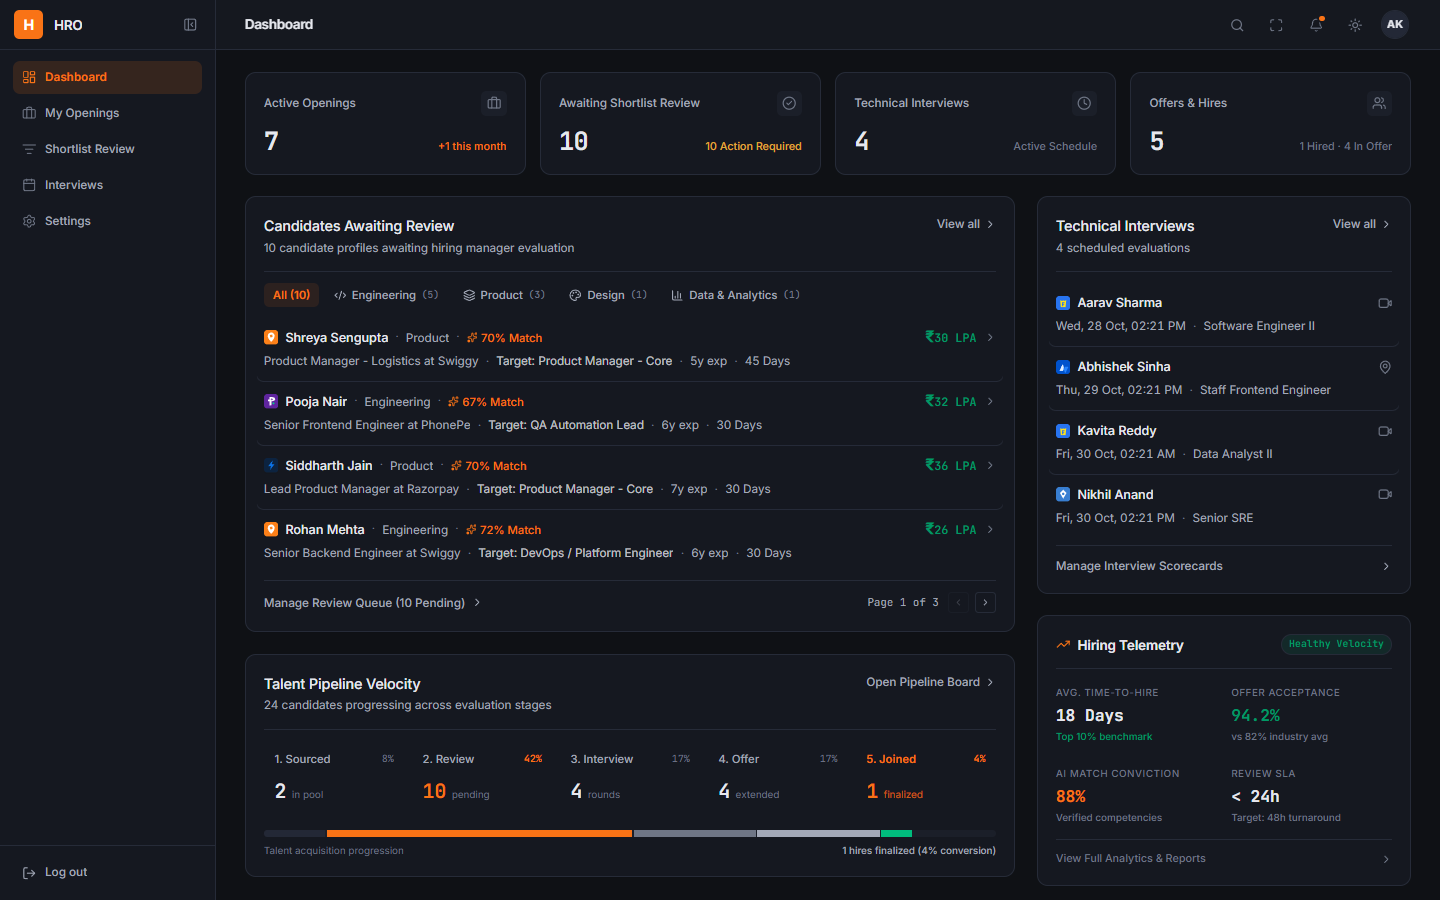
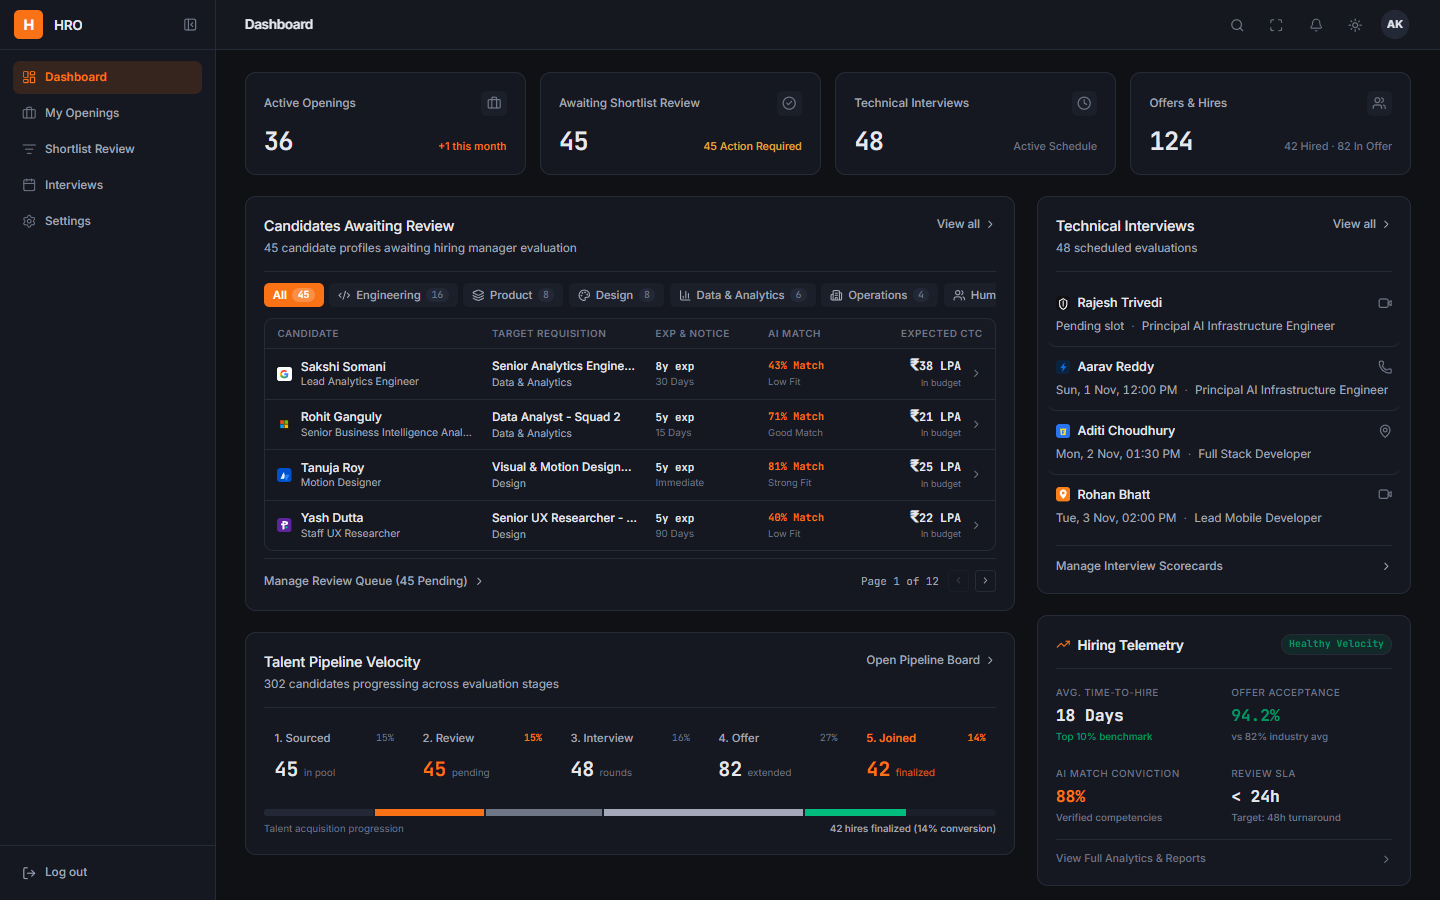
fix(cards): prevent text turning orange on card click or hover across all views

diff --git a/features/dashboard/components/manager-dashboard.tsx b/features/dashboard/components/manager-dashboard.tsx
@@ -247,18 +247,29 @@ export function ManagerDashboard() {
             </div>
 
             {/* Department Filter Pills (Clean Text, No Border Boxes) */}
+            {/* Department Filter Pills (Proper Orange When Selected, Matching Openings) */}
             <div className="pt-3 pb-1 flex items-center gap-1.5 overflow-x-auto no-scrollbar">
               <button
                 type="button"
                 onClick={() => handleSelectReviewDept('all')}
                 className={cn(
-                  'px-2.5 py-1 text-[12.5px] font-medium rounded-[6px] transition-colors cursor-pointer shrink-0',
+                  'inline-flex items-center gap-1.5 px-2.5 py-1 text-[12.5px] font-medium rounded-[6px] transition-colors cursor-pointer shrink-0',
                   selectedReviewDept === 'all'
-                    ? 'bg-accent/10 text-accent font-semibold'
-                    : 'text-text-muted hover:text-text hover:bg-surface-2'
+                    ? 'bg-accent text-white font-semibold shadow-xs'
+                    : 'bg-surface-2 text-text-muted hover:bg-surface-3 hover:text-text'
                 )}
               >
-                All ({pendingReviewCandidates.length})
+                <span>All</span>
+                <span
+                  className={cn(
+                    'rounded-full px-1.5 font-mono text-[11px]',
+                    selectedReviewDept === 'all'
+                      ? 'bg-white/20 text-white font-semibold'
+                      : 'bg-surface-3 text-text-subtle'
+                  )}
+                >
+                  {pendingReviewCandidates.length}
+                </span>
               </button>
               {departmentGroups.map((group) => {
                 const GroupIcon = group.icon;
@@ -271,19 +282,21 @@ export function ManagerDashboard() {
                     className={cn(
                       'inline-flex items-center gap-1.5 px-2.5 py-1 text-[12.5px] font-medium rounded-[6px] transition-colors cursor-pointer shrink-0',
                       isSelected
-                        ? 'bg-accent/10 text-accent font-semibold'
-                        : 'text-text-muted hover:text-text hover:bg-surface-2'
+                        ? 'bg-accent text-white font-semibold shadow-xs'
+                        : 'bg-surface-2 text-text-muted hover:bg-surface-3 hover:text-text'
                     )}
                   >
                     <GroupIcon className="h-3.5 w-3.5 shrink-0" />
                     <span>{group.title}</span>
                     <span
                       className={cn(
-                        'font-mono text-[11px]',
-                        isSelected ? 'text-accent' : 'text-text-subtle'
+                        'rounded-full px-1.5 font-mono text-[11px]',
+                        isSelected
+                          ? 'bg-white/20 text-white font-semibold'
+                          : 'bg-surface-3 text-text-subtle'
                       )}
                     >
-                      ({group.candidates.length})
+                      {group.candidates.length}
                     </span>
                   </button>
                 );

diff --git a/features/auth/components/auth-view.tsx b/features/auth/components/auth-view.tsx
@@ -493,13 +493,13 @@ export function AuthView({ initialMode = 'login' }: AuthViewProps) {
                     </AvatarFallback>
                   </Avatar>
                   <div className="min-w-0">
-                    <p className="text-text text-[12px] font-semibold truncate group-hover:text-accent transition-colors">
+                    <p className="text-text text-[12px] font-semibold truncate transition-colors">
                       {managerUser?.name ?? 'Arjun Kapoor'}
                     </p>
                     <p className="text-text-subtle text-[10.5px] truncate">Hiring Manager</p>
                   </div>
                 </div>
-                <ArrowRight className="h-3 w-3 text-text-subtle group-hover:text-accent group-hover:translate-x-0.5 transition-all shrink-0 ml-1" />
+                <ArrowRight className="h-3 w-3 text-text-subtle group-hover:text-text group-hover:translate-x-0.5 transition-all shrink-0 ml-1" />
               </button>
 
               {/* Persona 2: HR */}
@@ -515,13 +515,13 @@ export function AuthView({ initialMode = 'login' }: AuthViewProps) {
                     </AvatarFallback>
                   </Avatar>
                   <div className="min-w-0">
-                    <p className="text-text text-[12px] font-semibold truncate group-hover:text-accent transition-colors">
+                    <p className="text-text text-[12px] font-semibold truncate transition-colors">
                       {hrUser?.name ?? 'Priya Sharma'}
                     </p>
                     <p className="text-text-subtle text-[10.5px] truncate">HR Specialist</p>
                   </div>
                 </div>
-                <ArrowRight className="h-3 w-3 text-text-subtle group-hover:text-accent group-hover:translate-x-0.5 transition-all shrink-0 ml-1" />
+                <ArrowRight className="h-3 w-3 text-text-subtle group-hover:text-text group-hover:translate-x-0.5 transition-all shrink-0 ml-1" />
               </button>
             </div>
           </div>

diff --git a/features/openings/components/opening-detail.tsx b/features/openings/components/opening-detail.tsx
@@ -595,7 +595,7 @@ export function OpeningDetail({ id }: OpeningDetailProps) {
                                     <button
                                       type="button"
                                       onClick={() => handleInspect(candidate)}
-                                      className="text-[13.5px] font-bold text-text tracking-tight hover:text-accent transition-colors truncate cursor-pointer text-left"
+                                      className="text-[13.5px] font-bold text-text tracking-tight hover:text-text transition-colors truncate cursor-pointer text-left"
                                     >
                                       {candidate.name}
                                     </button>
@@ -718,7 +718,7 @@ export function OpeningDetail({ id }: OpeningDetailProps) {
                               <button
                                 type="button"
                                 onClick={() => handleInspect(candidate)}
-                                className="inline-flex items-center gap-1 text-[11px] font-medium text-text-subtle hover:text-accent transition-colors cursor-pointer"
+                                className="inline-flex items-center gap-1 text-[11px] font-medium text-text-muted hover:text-text transition-colors cursor-pointer"
                               >
                                 <span>View dossier</span>
                                 <ArrowRight className="h-3 w-3" />

diff --git a/features/candidates/components/ai-candidate-matcher-sheet.tsx b/features/candidates/components/ai-candidate-matcher-sheet.tsx
@@ -339,7 +339,7 @@ export function AiCandidateMatcherSheet({
 
                       <div className="min-w-0 flex-1">
                         <div className="flex items-center gap-1.5 flex-wrap">
-                          <h4 className="text-[13.5px] font-bold text-text tracking-tight group-hover:text-accent transition-colors truncate">
+                          <h4 className="text-[13.5px] font-bold text-text tracking-tight transition-colors truncate">
                             {candidate.name}
                           </h4>
                           <SourceBadge source={candidate.source} variant="plain" />
@@ -459,7 +459,7 @@ export function AiCandidateMatcherSheet({
                       <button
                         type="button"
                         onClick={() => onInspectCandidate(candidate)}
-                        className="inline-flex items-center gap-1 text-[11px] font-medium text-text-subtle hover:text-accent transition-colors cursor-pointer"
+                        className="inline-flex items-center gap-1 text-[11px] font-medium text-text-muted hover:text-text transition-colors cursor-pointer"
                       >
                         <span>View dossier</span>
                         <ArrowRight className="h-3 w-3" />

diff --git a/components/hro/opening-row.tsx b/components/hro/opening-row.tsx
@@ -63,7 +63,7 @@ export function OpeningRow({
     >
       {/* 1. Opening Cell */}
       <div className="min-w-0 flex flex-col justify-center">
-        <span className="inline-block max-w-full truncate text-[14px] leading-[20px] font-medium text-text hover:text-accent transition-colors">
+        <span className="inline-block max-w-full truncate text-[14px] leading-[20px] font-medium text-text group-hover:text-text transition-colors">
           {opening.title}
         </span>
 
@@ -102,7 +102,7 @@ export function OpeningRow({
                   e.stopPropagation();
                   onReactivate(opening.id, opening.title);
                 }}
-                className="opacity-0 group-hover:opacity-100 focus:opacity-100 transition-opacity text-[11px] text-accent hover:underline font-medium cursor-pointer"
+                className="opacity-0 group-hover:opacity-100 focus:opacity-100 transition-opacity text-[11px] text-text-muted hover:text-text hover:underline font-medium cursor-pointer"
               >
                 Reactivate
               </button>

diff --git a/features/candidates/components/interviews-view.tsx b/features/candidates/components/interviews-view.tsx
@@ -416,7 +416,7 @@ export function InterviewsView() {
               {departments.length > 0 && (
                 <Select value={departmentFilter} onValueChange={setDepartmentFilter}>
                   <SelectTrigger className="h-8.5 w-auto min-w-[150px] gap-2 border-border/70 bg-surface-2/40 hover:bg-surface-2 text-text px-3 text-[12.5px] font-medium rounded-[6px] shadow-2xs">
-                    <Building2 className="h-3.5 w-3.5 text-accent shrink-0" />
+                    <Building2 className="h-3.5 w-3.5 text-text-muted shrink-0" />
                     <SelectValue placeholder="All Departments" />
                   </SelectTrigger>
                   <SelectContent align="start" className="min-w-[190px]">

diff --git a/features/dashboard/components/hr-dashboard.tsx b/features/dashboard/components/hr-dashboard.tsx
@@ -539,7 +539,7 @@ export function HrDashboard() {
                           <div className="flex justify-end">
                             <Link
                               href={candidate.stage === 'Shared with Manager' ? '/shortlist' : '/pipeline'}
-                              className="inline-flex items-center gap-1 text-[11.5px] font-semibold text-text-muted hover:text-accent transition-colors"
+                              className="inline-flex items-center gap-1 text-[11.5px] font-semibold text-text-muted hover:text-text transition-colors"
                             >
                               <span>View Profile</span>
                               <ChevronRight className="h-3.5 w-3.5" />

diff --git a/features/candidates/components/candidates-table.tsx b/features/candidates/components/candidates-table.tsx
@@ -94,7 +94,7 @@ export function CandidatesTable() {
                 </AvatarFallback>
               </Avatar>
               <div className="min-w-0">
-                <span className="text-text hover:text-accent text-[13px] font-semibold tracking-tight transition-colors block truncate cursor-pointer">
+                <span className="text-text hover:text-text text-[13px] font-semibold tracking-tight transition-colors block truncate cursor-pointer">
                   {candidate.name}
                 </span>
                 <span className="text-text-muted text-[11px] block truncate font-normal">

diff --git a/features/openings/components/department-cluster-view.tsx b/features/openings/components/department-cluster-view.tsx
@@ -220,7 +220,7 @@ export function DepartmentClusterView({
                         <div className="flex flex-wrap items-center gap-2">
                           <Link
                             href={`/openings/${opening.id}`}
-                            className="text-[14.5px] font-semibold text-text hover:text-accent tracking-tight transition-colors"
+                            className="text-[14.5px] font-semibold text-text hover:text-text tracking-tight transition-colors"
                           >
                             {opening.title}
                           </Link>

diff --git a/components/ui/accordion.tsx b/components/ui/accordion.tsx
@@ -26,7 +26,7 @@ export const AccordionTrigger = React.forwardRef<
     <AccordionPrimitive.Trigger
       ref={ref}
       className={cn(
-        'text-text hover:text-accent flex flex-1 items-center justify-between py-4 text-[14px] font-medium transition-all hover:underline [&[data-state=open]>svg]:rotate-180',
+        'text-text hover:text-text flex flex-1 items-center justify-between py-4 text-[14px] font-medium transition-all hover:underline [&[data-state=open]>svg]:rotate-180',
         className
       )}
       {...props}

diff --git a/features/openings/components/openings-table.tsx b/features/openings/components/openings-table.tsx
@@ -129,7 +129,7 @@ export function OpeningsTable() {
             <div className="space-y-0.5">
               <Link
                 href={`/openings/${opening.id}`}
-                className="text-text hover:text-accent text-[14px] font-semibold transition-colors"
+                className="text-text hover:text-text text-[14px] font-semibold transition-colors"
                 onClick={(e) => e.stopPropagation()}
               >
                 {opening.title}
